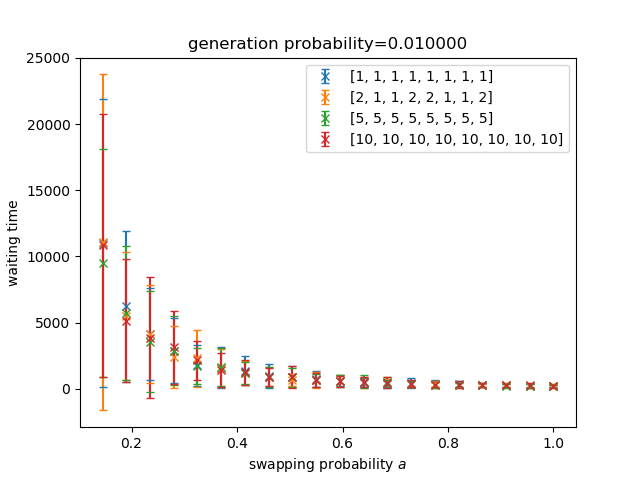
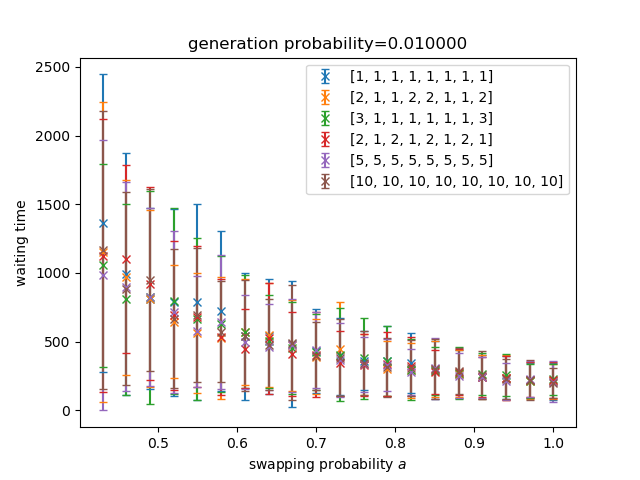
allow multiplexing on all links

diff --git a/test.py b/test.py
@@ -50,7 +50,7 @@ import numpy as np
 #print("generation attempt, working? ", elemlink.is_working, ", multiplicity: ", elemlink.multiplicity, "working? ", elemlink.is_working)
 #print("turn off")
 #elemlink.turn_off()
-#print("free memory space, L: ", elemlink.memoryL.buffer_space - elemlink.memoryL.occupied_buffer_space, "R: ", elemlink.memoryR.buffer_space - elemlink.memoryR.occupied_buffer_space, ", multiplicity: ", elemlink.multiplicity, "working? ", elemlink.is_working)
+#rint("free memory space, L: ", elemlink.memoryL.buffer_space - elemlink.memoryL.occupied_buffer_space, "R: ", elemlink.memoryR.buffer_space - elemlink.memoryR.occupied_buffer_space, ", multiplicity: ", elemlink.multiplicity, "working? ", elemlink.is_working)
 #print("turn off")
 #elemlink.turn_off()
 #print("free memory space, L: ", elemlink.memoryL.buffer_space - elemlink.memoryL.occupied_buffer_space, "R: ", elemlink.memoryR.buffer_space - elemlink.memoryR.occupied_buffer_space, ", multiplicity: ", elemlink.multiplicity, "working? ", elemlink.is_working)
@@ -65,45 +65,62 @@ import numpy as np
 """Test of Long Link"""
 print("Test of Long Link")
 link1 = memb.Elementary_Link(memoryL = memb.Memory(buffer_space=3),memoryR = memb.Memory(buffer_space=3))
-link2 = memb.Elementary_Link(memoryL = memb.Memory(buffer_space=2),memoryR = memb.Memory(buffer_space=2))
+link2 = memb.Elementary_Link(memoryL = memb.Memory(buffer_space=3),memoryR = memb.Memory(buffer_space=3))
 llink = memb.Long_Link(link1=link1,link2=link2,swapping_probability=1)
-llink.check_swapping_conditions()
-print("free memory space, L: ", llink.memoryL.buffer_space - llink.memoryL.occupied_buffer_space, "R: ", llink.memoryR.buffer_space - llink.memoryR.occupied_buffer_space)
-print("ready for swapping? ", llink.ready_for_swapping)
-print("generation_attempt on link 1")
-llink.link1.generation_attempt()
-llink.check_swapping_conditions()
-print("free memory space, L: ", llink.memoryL.buffer_space - llink.memoryL.occupied_buffer_space, "R: ", llink.memoryR.buffer_space - llink.memoryR.occupied_buffer_space)
-print("ready for swapping? ", llink.ready_for_swapping)
-print("generation_attempt on link 2") 
-llink.link2.generation_attempt()
-llink.check_swapping_conditions()
-print("free memory space, L: ", llink.memoryL.buffer_space - llink.memoryL.occupied_buffer_space, "R: ", llink.memoryR.buffer_space - llink.memoryR.occupied_buffer_space)
-print("ready for swapping? ", llink.ready_for_swapping) 
-print("before next timestep, is working: ", llink.is_working)
-llink.next_timestep()
-print("next timestep, is working: ", llink.is_working) 
-print("free memory space, L: ", llink.memoryL.buffer_space - llink.memoryL.occupied_buffer_space, "R: ", llink.memoryR.buffer_space - llink.memoryR.occupied_buffer_space)
-llink.turn_off()
-print("turn off, is working: ", llink.is_working)
-print("free memory space, L: ", llink.memoryL.buffer_space - llink.memoryL.occupied_buffer_space, "R: ", llink.memoryR.buffer_space - llink.memoryR.occupied_buffer_space)
-llink.check_swapping_conditions()
-print("xx ready for swapping? ", llink.ready_for_swapping)
+#llink.check_swapping_conditions()
+print("free memory space, L: ", llink.memoryL.buffer_space - llink.memoryL.occupied_buffer_space, "R: ", llink.memoryR.buffer_space - llink.memoryR.occupied_buffer_space, ", multiplicity: ", llink.multiplicity)
+#print("ready for swapping? ", llink.ready_for_swapping)
+#print("generation_attempt on link 1")
+#llink.link1.generation_attempt()
+#llink.check_swapping_conditions()
+#print("free memory space, L: ", llink.memoryL.buffer_space - llink.memoryL.occupied_buffer_space, "R: ", llink.memoryR.buffer_space - llink.memoryR.occupied_buffer_space, ", multiplicity: ", llink.multiplicity)
+#print("ready for swapping? ", llink.ready_for_swapping)
+#print("generation_attempt on link 2") 
+#llink.link2.generation_attempt()
+#llink.check_swapping_conditions()
+#print("free memory space, L: ", llink.memoryL.buffer_space - llink.memoryL.occupied_buffer_space, "R: ", llink.memoryR.buffer_space - llink.memoryR.occupied_buffer_space, ", multiplicity: ", llink.multiplicity)
+#print("ready for swapping? ", llink.ready_for_swapping) 
+#print("before next timestep, is working: ", llink.is_working, ", multiplicity: ", llink.multiplicity)
+#llink.next_timestep()
+#print("next timestep, is working: ", llink.is_working, ", multiplicity: ", llink.multiplicity) 
+#print("free memory space, L: ", llink.memoryL.buffer_space - llink.memoryL.occupied_buffer_space, "R: ", llink.memoryR.buffer_space - llink.memoryR.occupied_buffer_space, ", multiplicity: ", llink.multiplicity)
+#llink.turn_off()
+#print("turn off, is working: ", llink.is_working)
+#print("free memory space, L: ", llink.memoryL.buffer_space - llink.memoryL.occupied_buffer_space, "R: ", llink.memoryR.buffer_space - llink.memoryR.occupied_buffer_space, ", multiplicity: ", llink.multiplicity)
+#llink.check_swapping_conditions()
+#print("xx ready for swapping? ", llink.ready_for_swapping)
+#print("generation_attempt on link 1 and 2") #
+#llink.link1.generation_attempt()
+#llink.link2.generation_attempt()
+#llink.check_swapping_conditions()
+#print("xx ready for swapping? ", llink.ready_for_swapping)
+#print("before next timestep, is working: ", llink.is_working, ", multiplicity: ", llink.multiplicity)
+#llink.next_timestep()
+#print("next timestep, is working: ", llink.is_working)
+#print("free memory space, L: ", llink.memoryL.buffer_space - llink.memoryL.occupied_buffer_space, "R: ", llink.memoryR.buffer_space - llink.memoryR.occupied_buffer_space, ", multiplicity: ", llink.multiplicity)
 print("generation_attempt on link 1 and 2") #
 llink.link1.generation_attempt()
 llink.link2.generation_attempt()
-llink.check_swapping_conditions()
-print("xx ready for swapping? ", llink.ready_for_swapping)
-print("before next timestep, is working: ", llink.is_working)
-llink.next_timestep()
-print("next timestep, is working: ", llink.is_working)
-print("free memory space, L: ", llink.memoryL.buffer_space - llink.memoryL.occupied_buffer_space, "R: ", llink.memoryR.buffer_space - llink.memoryR.occupied_buffer_space)
+print("multiplicity on link1: ", link1.multiplicity, ", link2: ", link2.multiplicity)
 print("generation_attempt on link 1 and 2") #
 llink.link1.generation_attempt()
 llink.link2.generation_attempt()
-llink.check_swapping_conditions()
-print("ready for swapping? ", llink.ready_for_swapping)
-print("free memory space, L: ", llink.memoryL.buffer_space - llink.memoryL.occupied_buffer_space, "R: ", llink.memoryR.buffer_space - llink.memoryR.occupied_buffer_space)
+print("multiplicity on link1: ", link1.multiplicity, ", link2: ", link2.multiplicity)
+print("generation_attempt on link 1 and 2") #
+llink.link1.generation_attempt()
+llink.link2.generation_attempt()
+print("multiplicity on link1: ", link1.multiplicity, ", link2: ", link2.multiplicity)
+#llink.check_swapping_conditions()
+#print("ready for swapping? ", llink.ready_for_swapping)
+#print("free memory space, L: ", llink.memoryL.buffer_space - llink.memoryL.occupied_buffer_space, "R: ", llink.memoryR.buffer_space - llink.memoryR.occupied_buffer_space, ", multiplicity: ", llink.multiplicity)
+llink.next_timestep()
+print("next timestep, is working: ", llink.is_working, ", multiplicity: ", llink.multiplicity)
+print("multiplicity on link1: ", link1.multiplicity, ", link2: ", link2.multiplicity)
+#print("free memory space, L: ", llink.memoryL.buffer_space - llink.memoryL.occupied_buffer_space, "R: ", llink.memoryR.buffer_space - llink.memoryR.occupied_buffer_space, ", multiplicity: ", llink.multiplicity)
+#llink.next_timestep()
+#print("next timestep, is working: ", llink.is_working, ", multiplicity: ", llink.multiplicity)
+#print("multiplicity on link1: ", link1.multiplicity, ", link2: ", link2.multiplicity)
+#print("free memory space, L: ", llink.memoryL.buffer_space - llink.memoryL.occupied_buffer_space, "R: ", llink.memoryR.buffer_space - llink.memoryR.occupied_buffer_space, ", multiplicity: ", llink.multiplicity)
 
 
 

diff --git a/memory_buffer_doubling.py b/memory_buffer_doubling.py
@@ -121,7 +121,7 @@ class Memory:
 class Elementary_Link:
     """Class modelling an elementary link.
     Intended usage: an elementary link can exist or not.
-    Added feature: they can have a multiplicity.
+    Added feature: they can have a multiplicity (multiplexing).
     It needs two memories to get stored.
     If there is a free memory at each end, it attempts to get generated.
     Generation happens with a fixed generation probability.
@@ -141,7 +141,7 @@ class Elementary_Link:
         States whether there is free memory space 
         such that a link can get generated.
     multiplicity: int
-        as long as we have sufficiently much buffer space, we can have multiple parallel links.
+        as long as we have sufficiently much buffer space, we can have multiple parallel links (multiplexing).
     """
 
     def __init__(self,
@@ -205,7 +205,7 @@ class Elementary_Link:
 class Long_Link:
     """Class modelling an long link generated by swapping.
     Intended usage: a long link can exist or not.
-    Added feature: they can have a multiplicity.
+    Added feature: they can have a multiplicity (multiplexing).
     It occupies one memory on each side.
     It can get generated by entanglement swapping if specific shorter links are working.
     Swapping happens with a fixed swapping probability.
@@ -225,7 +225,8 @@ class Long_Link:
         States whether the shorter links are generated 
         such that they can get swapped.
     multiplicity: int
-        as long as we have sufficiently much buffer space, we can have multiple parallel links.
+        as long as we have sufficiently much buffer space, we can have multiple parallel links (multiplexing).
+    number_swapping_options: int
     """
 
     def __init__(self,
@@ -234,7 +235,8 @@ class Long_Link:
                  swapping_probability=1,
                  ready_for_swapping=False,
                  is_working=False,
-                 multiplicity=0):
+                 multiplicity=0,
+                 number_swapping_options=0):
         self.swapping_probability = swapping_probability
         self.link1 = link1
         self.link2 = link2
@@ -243,6 +245,7 @@ class Long_Link:
         self.ready_for_swapping = ready_for_swapping
         self.is_working = is_working
         self.multiplicity = multiplicity
+        self.number_swapping_options = number_swapping_options
 
             
     def check_swapping_conditions(self):
@@ -250,8 +253,12 @@ class Long_Link:
         #print(self.link1.is_working, self.link2.is_working)
         if self.link1.is_working and self.link2.is_working:
             self.ready_for_swapping = True
+            self.number_swapping_options = min(self.link1.multiplicity,self.link2.multiplicity)
+            #print("multiplicities link1, link2: ", self.link1.multiplicity,self.link2.multiplicity)
+            #print("number_swapping_options: ", self.number_swapping_options)
         else: 
             self.ready_for_swapping = False  
+            self.number_swapping_options = 0
 
 
 
@@ -290,8 +297,13 @@ class Long_Link:
             raise Exception("Something went wrong, tried to turn off a non working link.")
 
     def next_timestep(self):
-        if not self.is_working:
-            self.swapping_attempt()    
+        self.check_swapping_conditions()
+        #print("number_swapping_options: ", self.number_swapping_options) 
+        number_of_attempts = self.number_swapping_options
+        if self.number_swapping_options > 0:
+            for __ in range(number_of_attempts):
+                self.swapping_attempt()    
+                #print("multiplicity: ", self.multiplicity) 
 
 
 

diff --git a/compare_distributions.py b/compare_distributions.py
@@ -17,14 +17,16 @@ number_of_repetitions=100
 
 memory_numbers_list = [
     [1,1,1,1,1,1,1,1],
-    [2,1,1,2,2,1,1,2],
-    [3,1,1,1,1,1,1,3],
-    [2,1,2,1,2,1,2,1],
-    [5,5,5,5,5,5,5,5],
-    [10,10,10,10,10,10,10,10]]
+    #[2,1,1,2,2,1,1,2],
+    #[3,1,1,1,1,1,1,3],
+    #[2,1,2,1,2,1,2,1],
+    #[5,5,5,5,5,5,5,5],
+    [10,10,10,10,10,10,10,10],
+    [100,100,100,100,100,100,100,100]
+    ]
 
-steps = 20
-amin = 0.4
+steps = 9
+amin = 0.1
 amax = 1
 stepsize =  (amax-amin)/steps 
 
@@ -33,7 +35,7 @@ datamean_list = []
 datastdev_list = []
 
 
-dataa = [amin + i*stepsize for i in range(1,steps+1)]
+dataa = [amin + i*stepsize for i in range(0,steps+1)]
 #print(dataa)
 
 """vary distribution of memory_numbers"""
@@ -45,7 +47,7 @@ for j in range(len(memory_numbers_list)):
     datastdev = []
 
     """varry swapping_probability"""
-    for i in range(1,steps+1):
+    for i in range(0,steps+1):
         #print(i) 
         swapping_probability=amin + i*stepsize
         #print(swapping_probability)
@@ -68,7 +70,7 @@ for j in range(len(memory_numbers_list)):
 
 plt.xlabel('swapping probability $a$')
 plt.ylabel(r'waiting time')
-plt.title('generation probability=%f' %(generation_probability))
+plt.title('generation probability=%f, number_of_repetitions=%i' %(generation_probability,number_of_repetitions))
 
 
 plt.legend()
